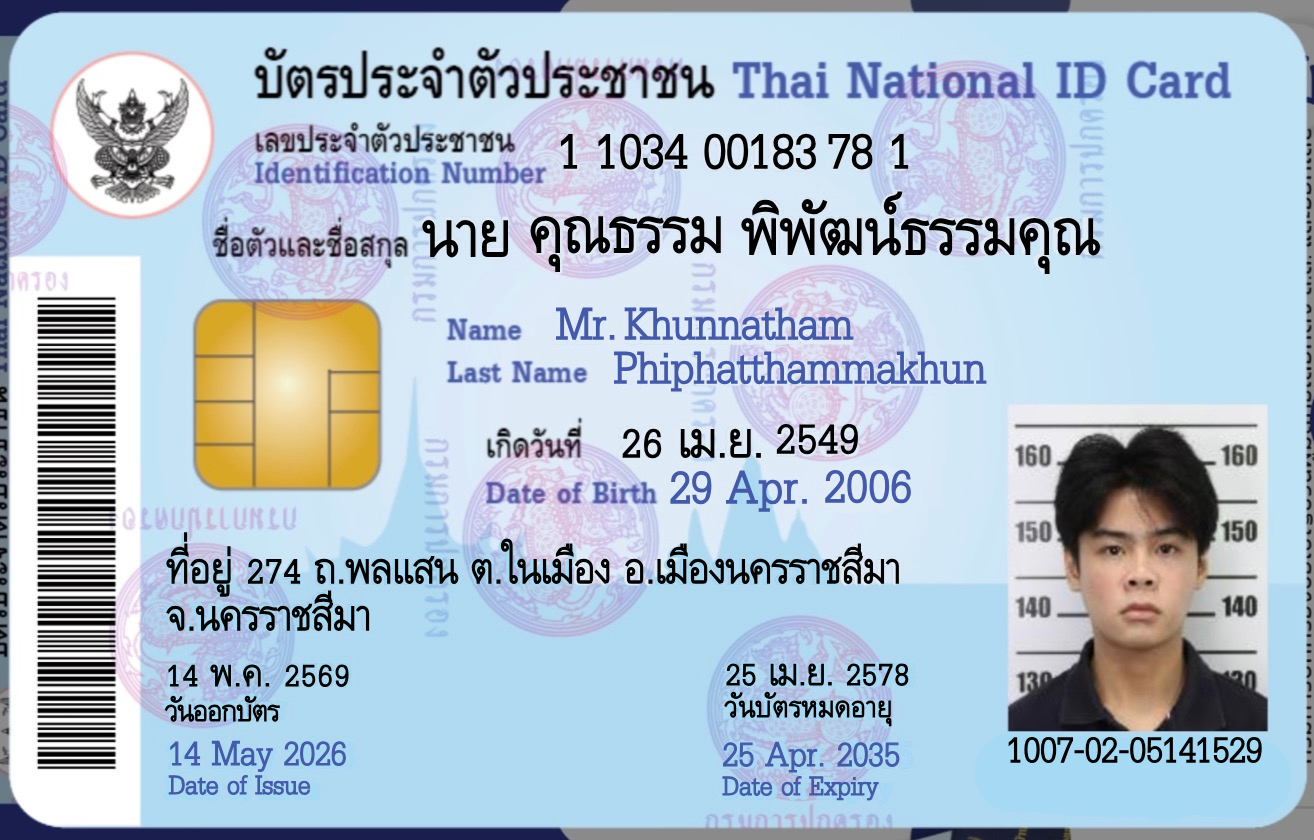
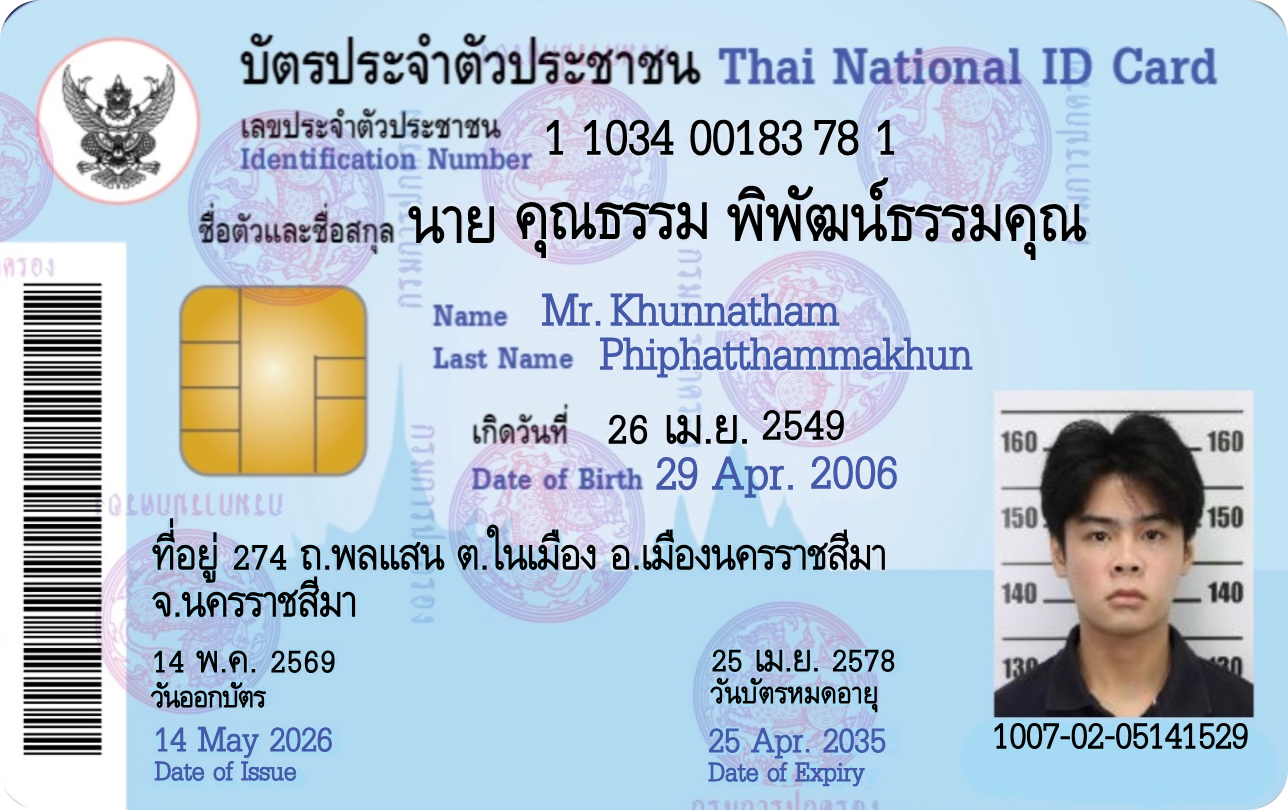
Crop user 4 card front and back images to card edges

diff --git a/lib/app-content.ts b/lib/app-content.ts
@@ -162,8 +162,8 @@ export const cardProfiles = {
       large: '/images/card-front-4.png',
     },
     back: {
-      small: '/images/card-back-4.jpg',
-      large: '/images/card-back-4.jpg',
+      small: '/images/card-back-4.png',
+      large: '/images/card-back-4.png',
     },
   },
   fifth: { ...firstCard, number: '5 5555 55555 55 5', fullNameTh: 'นาย ผู้ใช้งา��� คนที่ห้า', firstNameEn: 'Mr. Fifth', lastNameEn: 'User', photoCode: '0000-00-00000005' },
@@ -305,7 +305,7 @@ export const cardInfoProfiles = {
     nameTh: 'นาย คุณธรรม พิพัฒน์ธรรมคุณ',
     nameEn: 'Mr. Khunnatham  Phiphatthammakhun',
     address: '274 ถ.พหลแสน ต.ในเมือง อ.เมืองนครราชสีมา จ.นครราชสีมา',
-    birth: '26 เม.ย. 2549',
+    birth: '26 เม.��. 2549',
     issue: '14 พ.ค. 2569',
     expiry: '25 เม.ย. 2578',
   },
